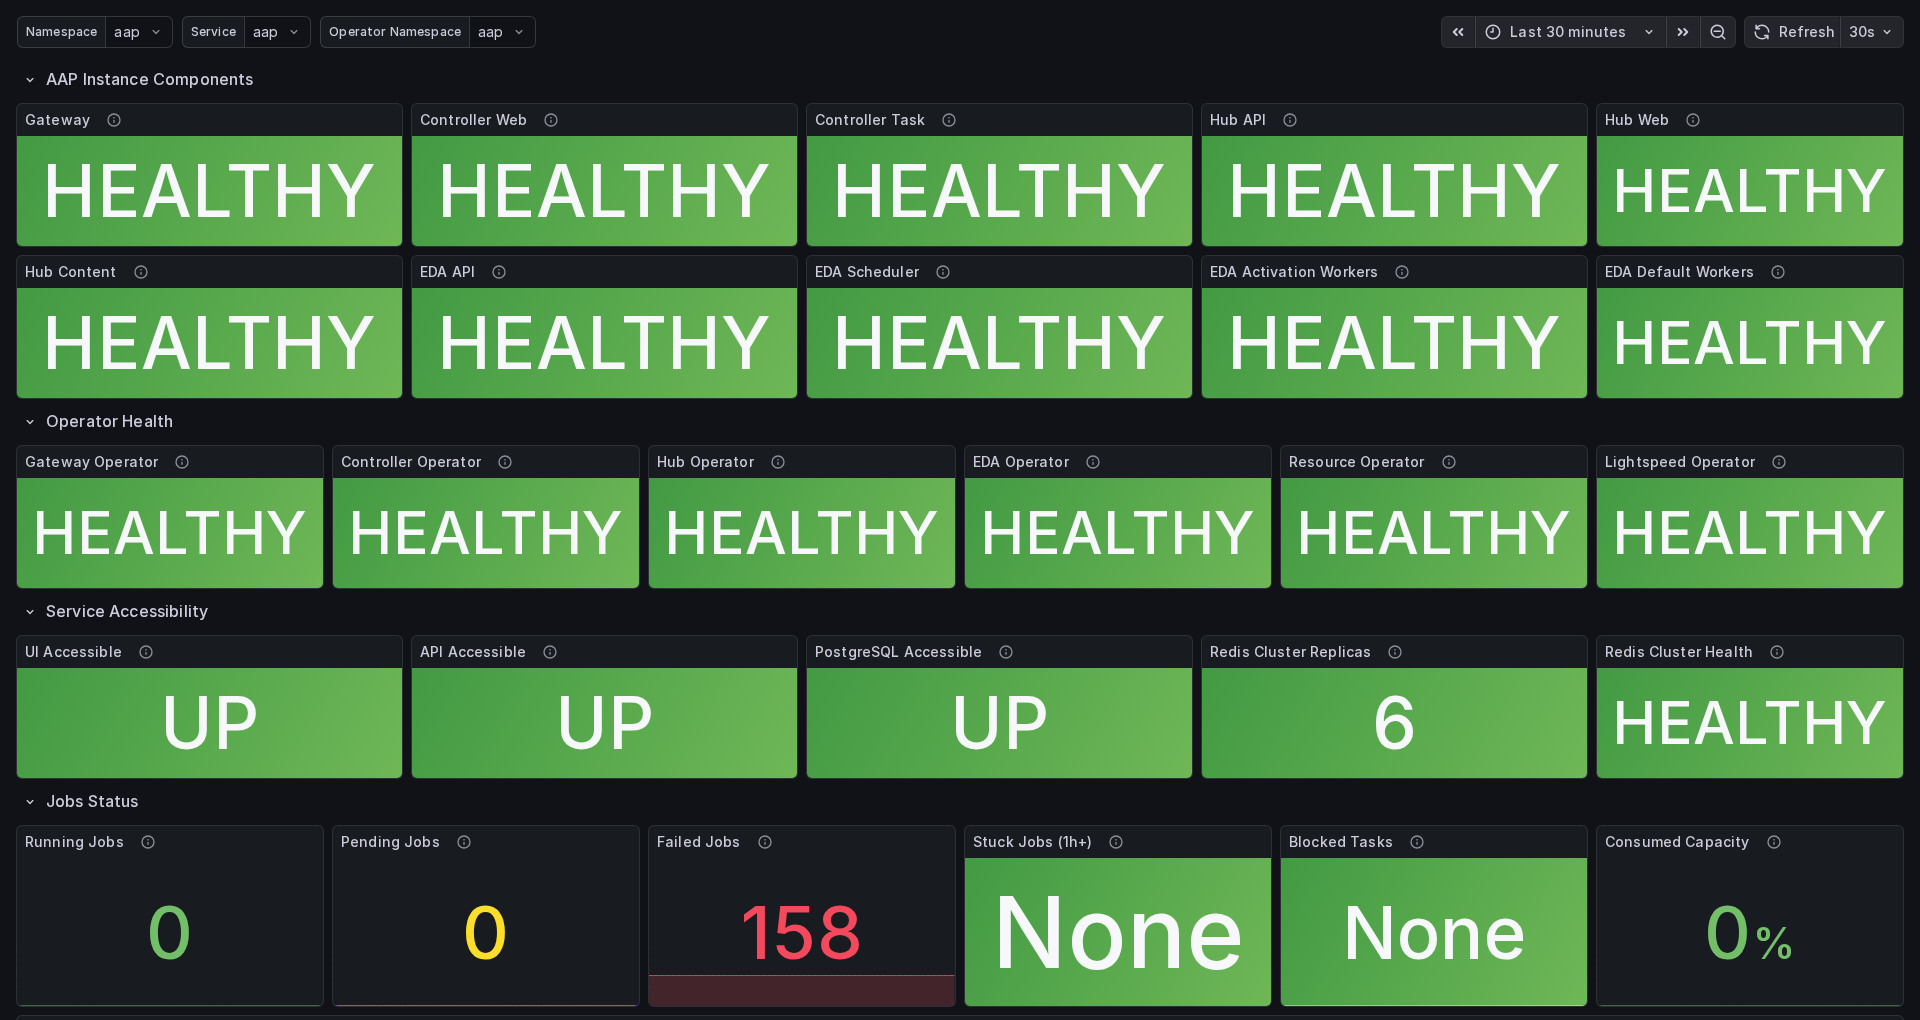
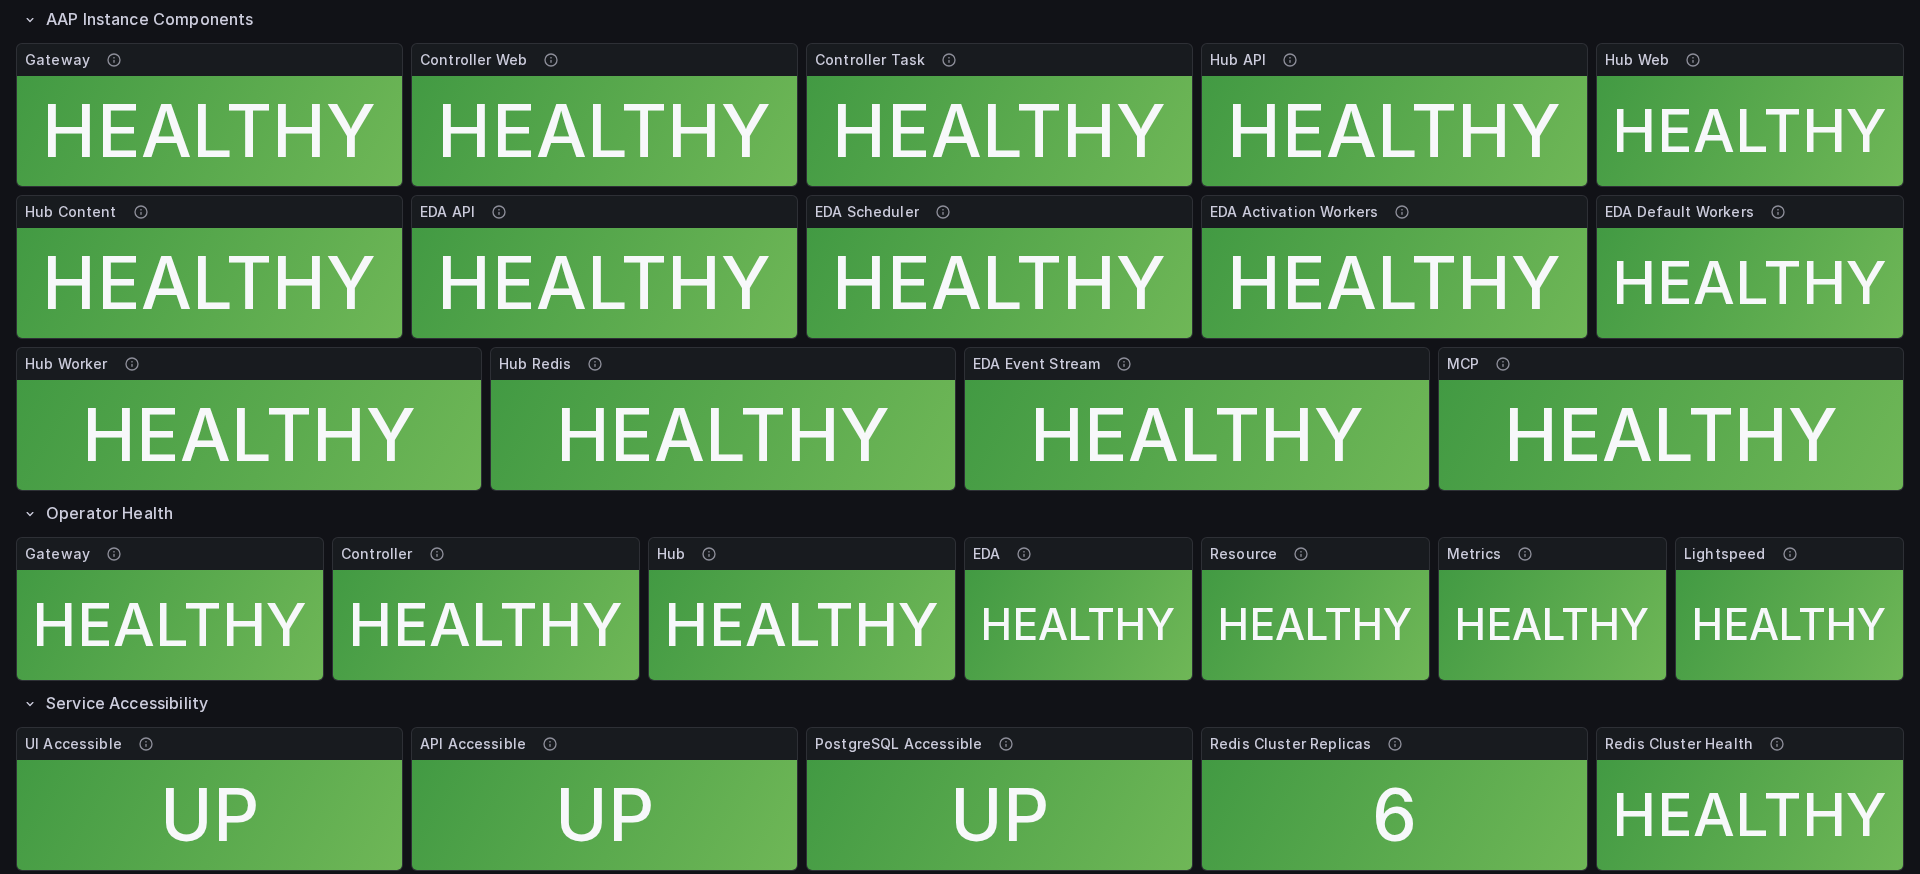
refactor(dashboards): rename overview dashboard and refresh docs assets
Rename the overview dashboard manifest/resource so the cluster object clearly
reflects its purpose, remove the redundant Overview capacity panel, and refresh
README screenshots so both dashboards match the current live layout.

diff --git a/README.md b/README.md
@@ -56,12 +56,11 @@ This repository provides two complementary Grafana dashboards with zero overlap:
 
 ### AAP - Overview
 
-The "what do we have" dashboard. Shows the platform's configuration, inventory, and capacity:
+The "what do we have" dashboard. Shows the platform's configuration, inventory, and automation content:
 
 - **License & Configuration** — AAP version, license type, expiry date, host usage, number of instances, Insights and External Logger status
 - **Inventory** — Users, Teams, Organizations, active sessions
 - **Resources** — Inventories, Projects, Job Templates, Workflow Templates, Active Hosts, Schedules
-- **Capacity** — Controller instance CPU, memory, fork capacity, remaining capacity, consumed capacity %
 
 ### AAP - Health & Monitoring
 
@@ -533,11 +532,11 @@ aap-monitor   31m
 ### **Creating Grafana Dashboards**
 
 - Now let's apply the AAP Grafana dashboards. Two dashboards are provided:
-  - `grafana-aap-dashboard.yaml` — **AAP - Overview** (license, inventory, capacity)
+  - `grafana-aap-overview-dashboard.yaml` — **AAP - Overview** (license, inventory, capacity)
   - `grafana-aap-health-dashboard.yaml` — **AAP - Health & Monitoring** (component health, accessibility, jobs, latency, resource health)
 
 ```shell
-oc -n aap-monitoring apply -f common/base/dashboards/grafana-aap-dashboard.yaml
+oc -n aap-monitoring apply -f common/base/dashboards/grafana-aap-overview-dashboard.yaml
 oc -n aap-monitoring apply -f common/base/dashboards/grafana-aap-health-dashboard.yaml
 ```
 
@@ -546,7 +545,7 @@ oc -n aap-monitoring apply -f common/base/dashboards/grafana-aap-health-dashboar
 ```shell
 oc -n aap-monitoring get grafanadashboard
 NAME                           NO MATCHING INSTANCES   LAST RESYNC   AGE
-grafana-dashboard-aap                                  3s            145m
+grafana-dashboard-aap-overview                         3s            145m
 grafana-dashboard-aap-health                           3s            1m
 ```
 
@@ -571,9 +570,11 @@ grafana-dashboard-aap-health                           3s            1m
 
 - **AAP - Health & Monitoring** Dashboard
 
-![Health Dashboard - Components, Operators, Services, Jobs](images/health-dashboard-top.png)
+![Health Dashboard - AAP Instance Components, Operator Health, Service Accessibility](images/health-dashboard-top.png)
 &nbsp;
-![Health Dashboard - Latency, Resource Health, Event Processing](images/health-dashboard-bottom.png)
+![Health Dashboard - Jobs Status, Latency](images/health-dashboard-middle.png)
+&nbsp;
+![Health Dashboard - Resource Health, Event Processing](images/health-dashboard-bottom.png)
 
 &nbsp;
 
